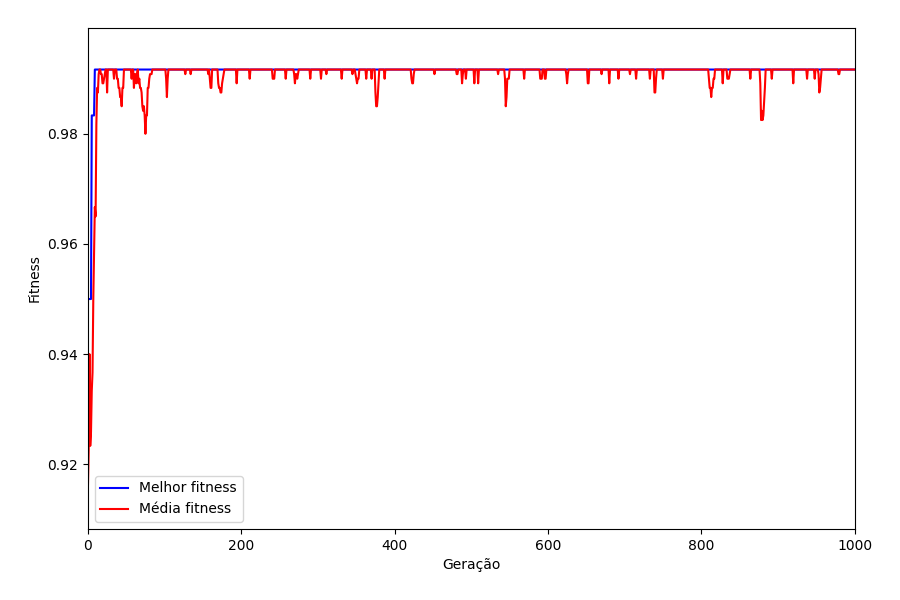
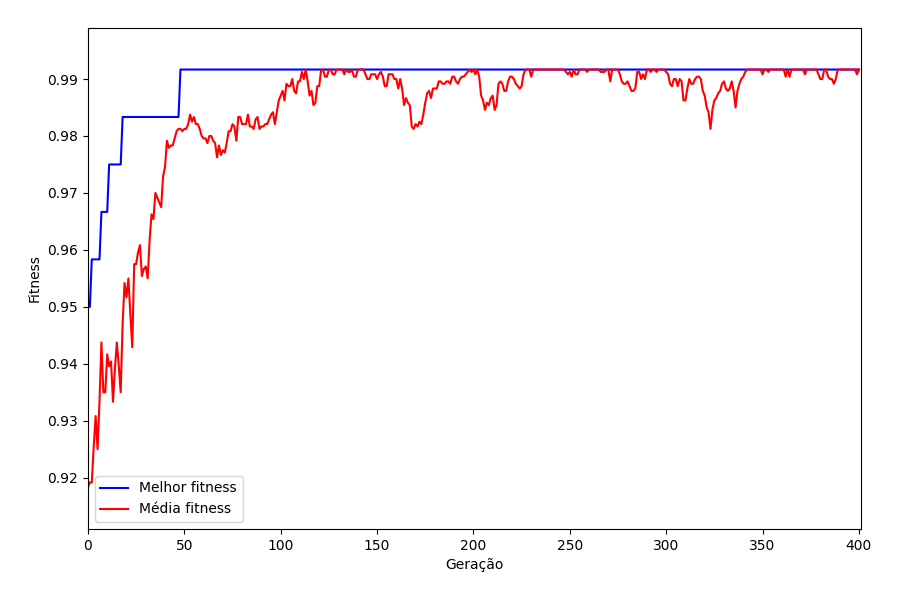
Ajustes parmetros

diff --git a/main.py b/main.py
@@ -11,10 +11,10 @@ def main() -> None:
     # ex3()
 
     # EX4 - N-Rainhas: execute apenas UM tabuleiro por vez (descomente o config desejado)
-    #ex4("./config/config_ex4_8.json")
+    # ex4("./config/config_ex4_8.json")
     # ex4("./config/config_ex4_16.json")
-    ex4("./config/config_ex4_32.json")
-    # ex4("./config/config_ex4_64.json")
+    # ex4("./config/config_ex4_32.json")
+    ex4("./config/config_ex4_64.json")
     # ex4("./config/config_ex4_128.json")
 
 